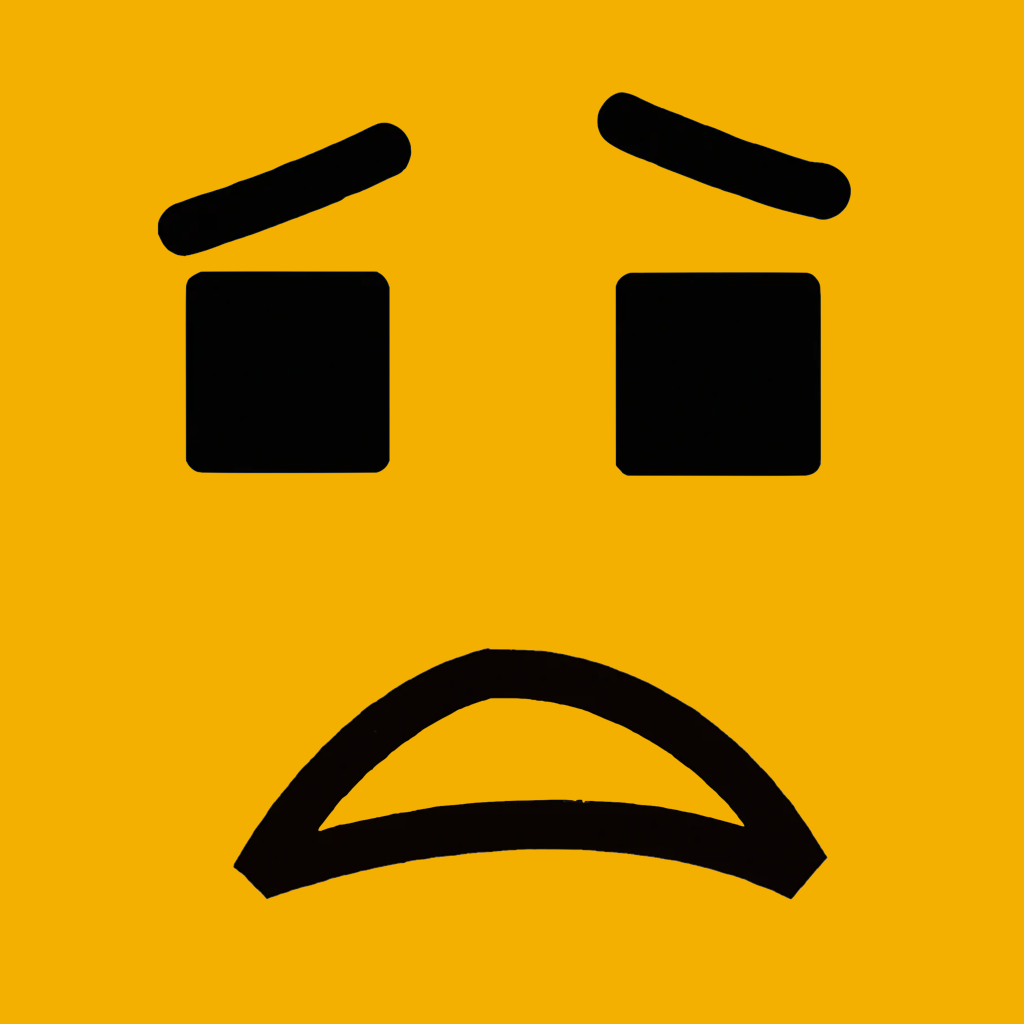
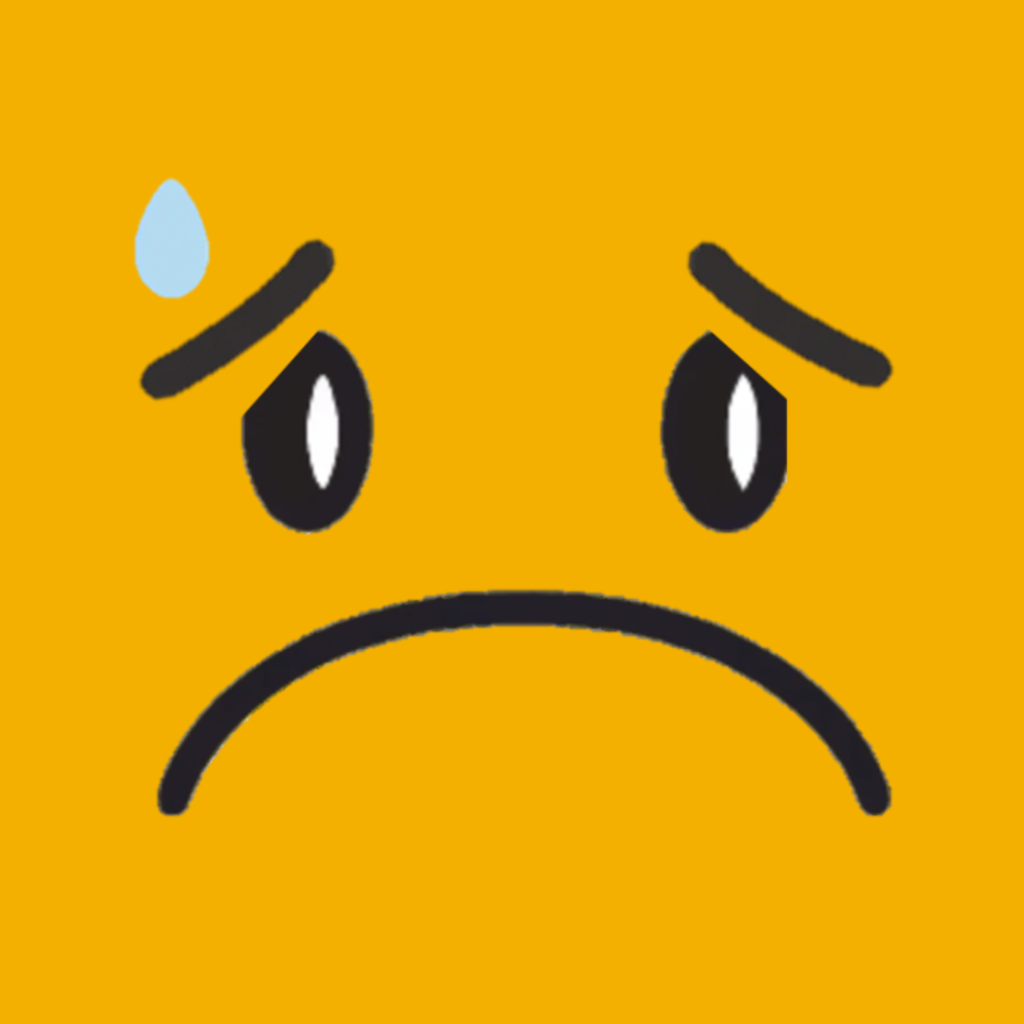
updated face answers in Survey

diff --git a/ClientApp/src/components/Question.js b/ClientApp/src/components/Question.js
@@ -151,110 +151,110 @@ const Question = () => {
         {
             question: 'I feel ____ about the appointment today.',
             answers: [
-                { imageSrc: require('../image/happy3.png'), description: 'Happy', color: '#56BF4F' },
-                { imageSrc: require('../image/sad3.png'), description: 'Sad', color: '#088FDB' },
-                { imageSrc: require('../image/fear3.png'), description: 'Fear', color: '#F4B000' },
-                { imageSrc: require('../image/anger3.png'), description: 'Anger', color: '#AE0803' },
+                { imageSrc: require('../image/happy2.png'), description: 'Happy', color: '#56BF4F' },
+                { imageSrc: require('../image/sad2.png'), description: 'Sad', color: '#088FDB' },
+                { imageSrc: require('../image/fear2.png'), description: 'Fear', color: '#F4B000' },
+                { imageSrc: require('../image/anger2.png'), description: 'Anger', color: '#AE0803' },
             ],
         },
 
         {
             question: 'I sometimes feel ____',
             answers: [
-                { imageSrc: require('../image/fever.png'), description: 'Fever', color: '#56BF4F' },
-                { imageSrc: require('../image/tired.png'), description: 'Fatigue', color: '#088FDB' },
-                { imageSrc: require('../image/shortnessofbreath.png'), description: 'Shortness of breath', color: '#F4B000' },
-                { imageSrc: require('../image/nauseous .png'), description: 'Nauseous', color: '#AE0803' },
+                { imageSrc: require('../image/fever2.png'), description: 'Fever', color: '#56BF4F' },
+                { imageSrc: require('../image/fatigue2.png'), description: 'Fatigue', color: '#088FDB' },
+                { imageSrc: require('../image/shortnessofbreath2.png'), description: 'Shortness of breath', color: '#F4B000' },
+                { imageSrc: require('../image/nauseous2.png'), description: 'Nauseous', color: '#AE0803' },
             ],
         },
 
         {
-            question: 'My treaments make me feel ____',
+            question: 'My treaments make me feel ____', 
             answers: [
-                { imageSrc: require('../image/anxious.png'), description: 'Anxious', color: '#088FDB' },
-                { imageSrc: require('../image/scared.png'), description: 'Scared', color: '#AE0803' },
-                { imageSrc: require('../image/ready.png'), description: 'Ready', color: '#F4B000' },
-                { imageSrc: require('../image/supported.png'), description: 'Supported', color: '#56BF4F' },
+                { imageSrc: require('../image/anxious2.png'), description: 'Anxious', color: '#56BF4F' },
+                { imageSrc: require('../image/scared2.png'), description: 'Scared', color: '#088FDB' },
+                { imageSrc: require('../image/ready2.png'), description: 'Ready', color: '#F4B000' },
+                { imageSrc: require('../image/supported2.png'), description: 'Supported', color: '#AE0803' },
             ],
         },
 
         {
-            question: 'I eat ____ everyday.',
+            question: 'I eat ____ everyday.', // this section is not done
             answers: [
-                { imageSrc: require('../image/happy.png'), description: 'Once a day' },
-                { imageSrc: require('../image/happy.png'), description: 'Twice a day' },
-                { imageSrc: require('../image/happy.png'), description: 'Three times a day' },
-                { imageSrc: require('../image/happy.png'), description: 'More than three times a day' },
+                { imageSrc: require('../image/nauseous.png'), description: 'Once a day', color: '#56BF4F' },
+                { imageSrc: require('../image/twice.png'), description: 'Twice a day', color: '#088FDB' },
+                { imageSrc: require('../image/three.png'), description: 'Three times a day', color: '#F4B000' },
+                { imageSrc: require('../image/four.png'), description: 'More than three times a day', color: '#AE0803' },
             ],
         },
 
         {
-            question: 'At night, I wake up ____',
+            question: 'At night, I wake up ____', // this section is not done
             answers: [
-                { imageSrc: require('../image/happy.png'), description: 'No' },
-                { imageSrc: require('../image/happy.png'), description: 'Sometimes' },
-                { imageSrc: require('../image/happy.png'), description: 'Many times ' },
-                { imageSrc: require('../image/happy.png'), description: 'Yes' },
+                { imageSrc: require('../image/fatigue3.png'), description: 'Never', color: '#56BF4F' },
+                { imageSrc: require('../image/sometimes.png'), description: 'Sometimes', color: '#088FDB' },
+                { imageSrc: require('../image/bored2.png'), description: 'Many times', color: '#F4B000' },
+                { imageSrc: require('../image/allNight.png'), description: 'All night', color: '#AE0803' },
             ],
         },
 
         {
             question: 'In school, I feel ____ about what is being taught.',
             answers: [
-                { imageSrc: require('../image/happy.png'), description: 'Confused' },
-                { imageSrc: require('../image/happy.png'), description: 'Confident' },
-                { imageSrc: require('../image/happy.png'), description: 'Bored' },
-                { imageSrc: require('../image/happy.png'), description: 'Excited' },
+                { imageSrc: require('../image/confused2.png'), description: 'Confused', color: '#56BF4F' },
+                { imageSrc: require('../image/confident2.png'), description: 'Confident', color: '#088FDB' },
+                { imageSrc: require('../image/bored2.png'), description: 'Bored', color: '#F4B000' },
+                { imageSrc: require('../image/excited2.png'), description: 'Excited', color: '#AE0803' },
             ],
         },
 
         {
-            question: 'I feel safe during my daily activities.',
+            question: 'I feel safe during my daily activities.', // this section is not done
             answers: [
-                { imageSrc: require('../image/happy.png'), description: 'Yes' },
-                { imageSrc: require('../image/happy.png'), description: 'Maybe' },
-                { imageSrc: require('../image/happy.png'), description: 'No' },
-                { imageSrc: require('../image/happy.png'), description: 'I don\'t know' },
+                { imageSrc: require('../image/supported3.png'), description: 'Yes', color: '#56BF4F' },
+                { imageSrc: require('../image/twice.png'), description: 'Maybe', color: '#088FDB' },
+                { imageSrc: require('../image/fear2.png'), description: 'No', color: '#F4B000' },
+                { imageSrc: require('../image/confused3.png'), description: 'I don\'t know', color: '#AE0803' },
             ],
         },
 
         {
-            question: 'I have friends or classmates in school who I can spend time with',
+            question: 'I have friends or classmates in school who I can spend time with', // this section is not done
             answers: [
-                { imageSrc: require('../image/happy.png'), description: 'Yes' },
-                { imageSrc: require('../image/happy.png'), description: 'Maybe' },
-                { imageSrc: require('../image/happy.png'), description: 'No' },
-                { imageSrc: require('../image/happy.png'), description: 'I don\'t know' },
+                { imageSrc: require('../image/eager2.png'), description: 'Yes', color: '#56BF4F' },
+                { imageSrc: require('../image/twice.png'), description: 'Maybe', color: '#088FDB' },
+                { imageSrc: require('../image/fear2.png'), description: 'No', color: '#F4B000' },
+                { imageSrc: require('../image/confused3.png'), description: 'I don\'t know', color: '#AE0803' },
             ],
         },
 
         {
             question: 'I feel ____ throughout the day.',
             answers: [
-                { imageSrc: require('../image/happy.png'), description: 'Joy' },
-                { imageSrc: require('../image/happy.png'), description: 'Sad' },
-                { imageSrc: require('../image/happy.png'), description: 'Fear' },
-                { imageSrc: require('../image/happy.png'), description: 'Anger' },
+                { imageSrc: require('../image/happy2.png'), description: 'Joy', color: '#56BF4F' },
+                { imageSrc: require('../image/sad2.png'), description: 'Sad', color: '#088FDB' },
+                { imageSrc: require('../image/fear2.png'), description: 'Fear', color: '#F4B000' },
+                { imageSrc: require('../image/anger2.png'), description: 'Anger', color: '#AE0803' },
             ],
         },
 
         {
             question: 'Taking home medicines make me feel',
             answers: [
-                { imageSrc: require('../image/happy.png'), description: 'Eager' },
-                { imageSrc: require('../image/happy.png'), description: 'Sad' },
-                { imageSrc: require('../image/happy.png'), description: 'Reluctant' },
-                { imageSrc: require('../image/happy.png'), description: 'Anger' },
+                { imageSrc: require('../image/eager2.png'), description: 'Eager', color: '#56BF4F' },
+                { imageSrc: require('../image/sad2.png'), description: 'Sad', color: '#088FDB' },
+                { imageSrc: require('../image/bored2.png'), description: 'Reluctant', color: '#F4B000' },
+                { imageSrc: require('../image/anger2.png'), description: 'Anger', color: '#AE0803' },
             ],
         },
 
         {
-            question: 'During the week, I am active ____',
+            question: 'During the week, I am active ____', // this section is not done yet
             answers: [
-                { imageSrc: require('../image/happy.png'), description: 'Everyday' },
-                { imageSrc: require('../image/happy.png'), description: 'Most of the week' },
-                { imageSrc: require('../image/happy.png'), description: 'Less than half of the week' },
-                { imageSrc: require('../image/happy.png'), description: 'Never' },
+                { imageSrc: require('../image/eager2.png'), description: 'Everyday', color: '#56BF4F' },
+                { imageSrc: require('../image/confident2.png'), description: 'Most of the week', color: '#088FDB' },
+                { imageSrc: require('../image/three.png'), description: 'Less than half of the week', color: '#F4B000' },
+                { imageSrc: require('../image/allNight.png'), description: 'Never', color: '#AE0803' },
             ],
         },
 

diff --git a/ClientApp/src/components/CustomSlider.js b/ClientApp/src/components/CustomSlider.js
@@ -5,9 +5,9 @@ import Slider from '@mui/material/Slider';
 import 'bootstrap/dist/css/bootstrap.min.css';
 import '../custom.css';
 import { styled } from '@mui/material/styles';
-import Level1 from "../image/happy.png"
-import Level5 from "../image/fear.png"
-import Level10 from "../image/anger.png"
+import Level1 from "../image/happyPain.png"
+import Level5 from "../image/middlePain.png"
+import Level10 from "../image/sadPain.png"
 
 const CustomSlider = ({ q12, onQ12Change }) => {
 

diff --git a/ClientApp/src/custom.css b/ClientApp/src/custom.css
@@ -31,13 +31,13 @@ a {
 }
 
 .btn-primary {
-    color: #000000;
+    color: #FFFFFF;
     background-color: #79D4AC;
     border-color: #79D4AC;
 }
 
 .btn-disabled {
-    color: #000000;
+    color: #FFFFFF;
     background-color: #b4d9c9;
     border-color: #79D4AC;
 }
